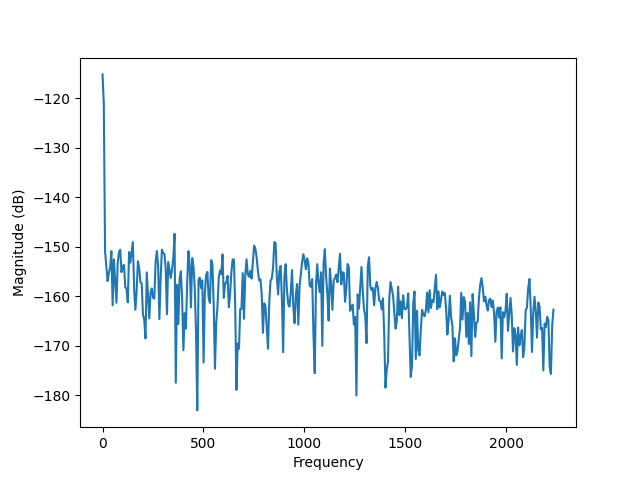
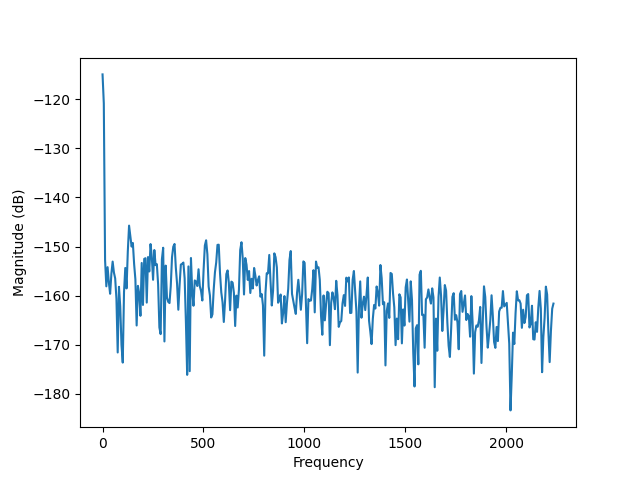
updates to downsampling

diff --git a/SourceCode/lowpass.py b/SourceCode/lowpass.py
@@ -31,17 +31,27 @@ def runLowpass(integerDownsampleFactor, filterOrder):
     return (time, data_T, lowpassData,number_of_time_samples,sampling_duration,sampling_freq)
 
 
-def runDownsample(integerDownsampleFactor,samplingDuration,lowpassData):
-    downsampled_data = scipy.signal.decimate(lowpassData,integerDownsampleFactor);
-    print(len(downsampled_data[0]), file=sys.stderr);
-    newNumSamples = len(downsampled_data[0]);
-    downsampled_time = np.linspace(0,samplingDuration,newNumSamples, endpoint=False);
-    print(len(downsampled_time), file=sys.stderr);
-    return (downsampled_time, downsampled_data)
+def runDownsample(integerDownsampleFactor):
+    client = server_func.setup_server();
+    data, md = server_func.get_data(client,1);
+    dT = md['dT'];
+    sampling_freq = 1/dT;
+    data_T = np.transpose(data);
+    number_of_time_samples = md['nT'];
+    sampling_duration = number_of_time_samples * dT;
+    time = np.linspace(0, sampling_duration, number_of_time_samples, endpoint=False);
+    
+    downsampled_signal = scipy.signal.decimate(data,integerDownsampleFactor);
+    #print(len(downsampled_signal[0]), file=sys.stderr);
+    print(downsampled_signal.shape, file=sys.stderr);
+    newNumSamples = len(downsampled_signal[0]);
+    downsampled_time = np.linspace(0,sampling_duration,newNumSamples, endpoint=False);
+    #print(len(downsampled_time), file=sys.stderr);
+    return (time,data_T,downsampled_time, downsampled_signal,sampling_freq)
 
-def plotAmplitudeSpectrum(signal,filteredSignal,channelNumber,numSamples, signalFreq):
+def plotAmplitudeSpectrum(signal,downsampledSignal,channelNumber,signalFreq):
     signal = np.transpose(signal);
-    filteredSignal = np.transpose(filteredSignal);
+    downsampledSignal = np.transpose(downsampledSignal);
 
     plt.magnitude_spectrum(signal[:,channelNumber],Fs=signalFreq)
     plt.savefig('figures/ampSpectrum.png')
@@ -49,8 +59,8 @@ def plotAmplitudeSpectrum(signal,filteredSignal,channelNumber,numSamples, signal
     plt.ylabel("Amplitude");
     plt.close()
 
-    plt.magnitude_spectrum(filteredSignal[:,channelNumber],Fs=signalFreq)
-    plt.savefig('figures/ampSpectrumFiltered.png')
+    plt.magnitude_spectrum(downsampledSignal[:,channelNumber],Fs=signalFreq)
+    plt.savefig('figures/ampSpectrumDownsampled.png')
     plt.xlabel("Frequency (Hz)");
     plt.ylabel("Amplitude");
     plt.close()
@@ -61,15 +71,15 @@ def plotAmplitudeSpectrum(signal,filteredSignal,channelNumber,numSamples, signal
     plt.ylabel("Log(Amplitude)");
     plt.close()
 
-    plt.magnitude_spectrum(filteredSignal[:,channelNumber],Fs=signalFreq, scale='dB')
-    plt.savefig('figures/logAmpSpectrumFiltered.png')
+    plt.magnitude_spectrum(downsampledSignal[:,channelNumber],Fs=signalFreq, scale='dB')
+    plt.savefig('figures/logAmpSpectrumDownsampled.png')
     plt.xlabel("Frequency (Hz)");
     plt.ylabel("Log(Amplitude)");
     plt.close()
 
 
 
-def plotLowpass(time,signal,filteredSignal,downsampleTime,downsampledSignal,channelNumber,startTime,endTime):
+def plotLowpass(time,signal,downsampleTime,downsampledSignal,channelNumber,startTime,endTime):
     temp = np.where(time >= startTime);
     first = min(min(temp));
     temp = np.where(time <= endTime);
@@ -82,12 +92,21 @@ def plotLowpass(time,signal,filteredSignal,downsampleTime,downsampledSignal,chan
 
     fig = plt.figure(figsize=(10,10));
     plt.plot(time[first:last], signal[first:last,channelNumber], 'b-', label='signal')
-    plt.plot(time[first:last], filteredSignal[first:last, channelNumber], 'g-', label='filtered signal')
     plt.plot(downsampleTime[first_d:last_d], downsampledSignal[first_d:last_d, channelNumber], 'r-', label='downsampled signal')
     plt.xlabel("Time (s)");
     plt.ylabel("Amplitude");
     plt.legend();
     plt.savefig('figures/lowpassFigure.png')
+    plt.close()
+
+
+    fig = plt.figure(figsize=(10,10));
+    #plt.plot(time[first:last], signal[first:last,channelNumber], 'b-', label='signal')
+    plt.plot(downsampleTime[first_d:last_d], downsampledSignal[first_d:last_d, channelNumber], 'r-', label='downsampled signal')
+    plt.xlabel("Time (s)");
+    plt.ylabel("Amplitude");
+    plt.legend();
+    plt.savefig('figures/lowpassFigureDownsampled.png')
     plt.close()
     
 def lowpass(data, freq, df, corners=4, zerophase=False):

diff --git a/Examples/lowpassEx.py b/Examples/lowpassEx.py
@@ -9,15 +9,17 @@ import warnings
 plt.switch_backend('agg')
 
 filterOrder = 6;
-integerDownsampleFactor = 10;
+integerDownsampleFactor = 5;
 #Run lowpass filter
-(time,signal,filtered_signal,num_samples,sample_duration,sample_freq) = lowpass.runLowpass(integerDownsampleFactor,filterOrder);
-(downsample_time, downsample_signal) = lowpass.runDownsample(integerDownsampleFactor,sample_duration,filtered_signal);
+#(time,signal,filtered_signal,num_samples,sample_duration,sample_freq) = lowpass.runLowpass(integerDownsampleFactor,filterOrder);
+(time, signal, downsample_time, downsample_signal, sample_freq) = lowpass.runDownsample(integerDownsampleFactor);
+#(time,signal,filtered_signal,num_samples,sample_duration,sample_freq) = lowpass.runLowpass(integerDownsampleFactor,filterOrder);
+
 channelNumber = 50;
 startTime = 0.10;
 endTime = 0.15;
 
 #Plot lowpass filter on channelNumber
-lowpass.plotLowpass(time,signal,filtered_signal,downsample_time,downsample_signal,channelNumber,startTime,endTime);
-lowpass.plotAmplitudeSpectrum(signal, filtered_signal, channelNumber, num_samples, sample_freq);
+lowpass.plotLowpass(time,signal,downsample_time,downsample_signal,channelNumber,startTime,endTime);
+lowpass.plotAmplitudeSpectrum(signal, downsample_signal, channelNumber, sample_freq);
 
